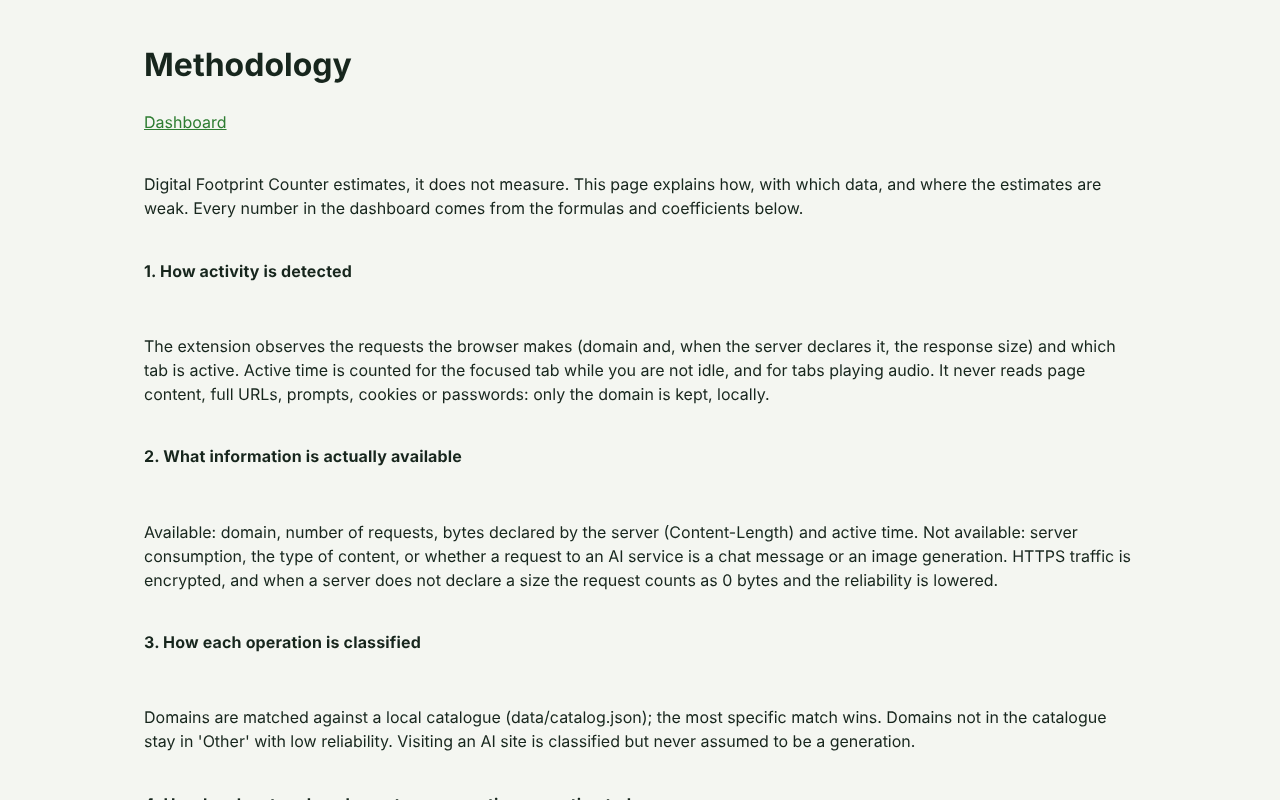
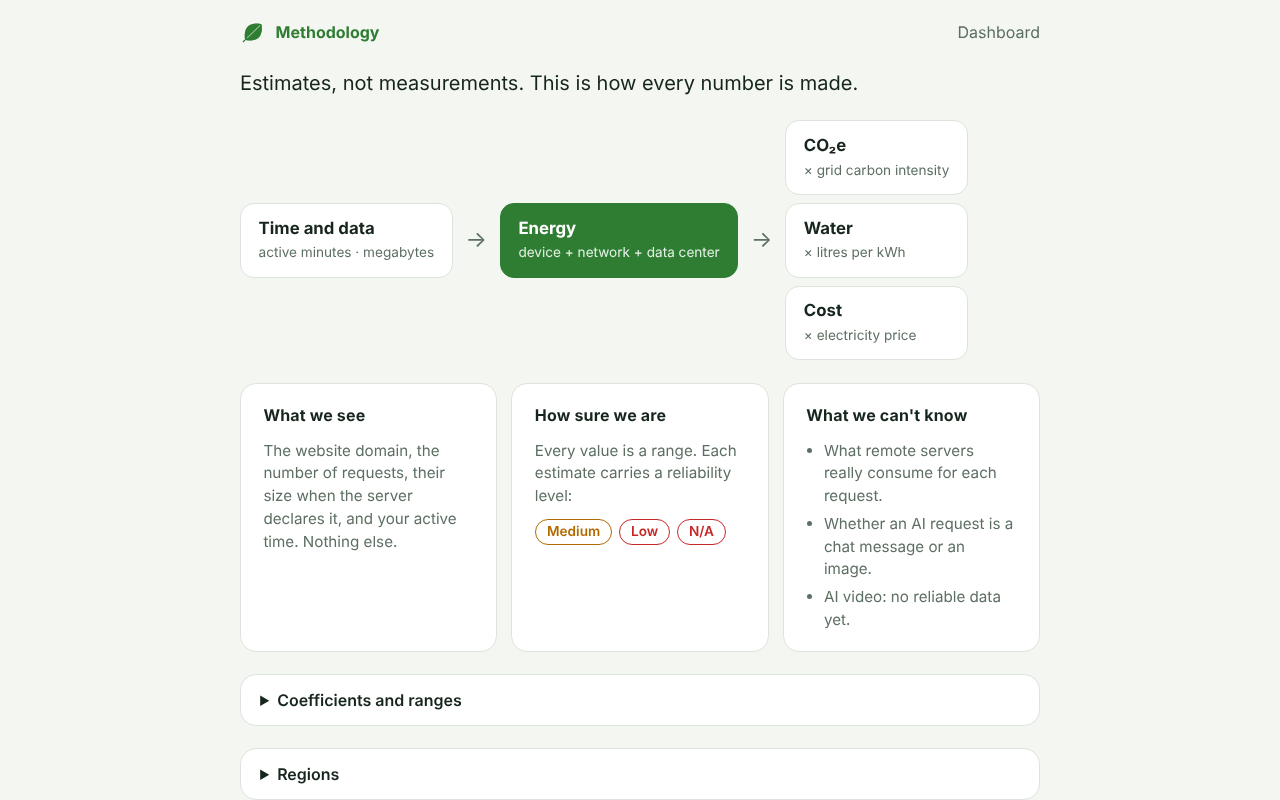
Metodologia essenziale, CSP senza connessioni esterne, icone senza innerHTML, documenti su ricerca valori e modalità di precisione
Claude-Session: https://claude.ai/code/session_01FMdp5T99h9ndXsWj19GVp4

diff --git a/methodology/methodology.html b/methodology/methodology.html
@@ -9,42 +9,53 @@
 </head>
 <body>
   <main>
-    <header>
-      <h1 data-i18n="nav.methodology"></h1>
+    <header class="top">
+      <div class="brand"><img src="../icons/leaf-green-48.png" alt="" width="26" height="26"><span data-i18n="nav.methodology"></span></div>
       <nav><a href="../dashboard/dashboard.html" data-i18n="nav.dashboard"></a></nav>
     </header>
-    <p data-i18n="m.intro"></p>
 
-    <h2 id="detect" data-i18n="m1.title"></h2><p data-i18n="m1.body"></p>
-    <h2 id="info" data-i18n="m2.title"></h2><p data-i18n="m2.body"></p>
-    <h2 id="classify" data-i18n="m3.title"></h2><p data-i18n="m3.body"></p>
-    <h2 id="estimate" data-i18n="m4.title"></h2>
-    <p data-i18n="m4.body1"></p><p data-i18n="m4.body2"></p><p data-i18n="m4.body3"></p><p data-i18n="m4.body4"></p>
+    <p class="lead" data-i18n="m.lead"></p>
 
-    <h2 id="coefficients" data-i18n="m5.title"></h2><p class="note" data-i18n="m5.hint"></p>
-    <div class="scroll"><table id="coef-table"><thead><tr>
-      <th data-i18n="mt.coef"></th><th data-i18n="mt.value"></th><th data-i18n="col.reliability"></th><th data-i18n="mt.status"></th><th data-i18n="mt.method"></th><th data-i18n="mt.sources"></th>
-    </tr></thead><tbody></tbody></table></div>
+    <section id="estimate" class="flow" aria-label="Calculation">
+      <div class="node"><b data-i18n="flow.time"></b><span data-i18n="flow.time.sub"></span></div>
+      <div class="arrow" aria-hidden="true">→</div>
+      <div class="node core"><b data-i18n="flow.energy"></b><span data-i18n="flow.energy.sub"></span></div>
+      <div class="arrow" aria-hidden="true">→</div>
+      <div class="outs">
+        <div class="node"><b data-i18n="flow.co2"></b><span data-i18n="flow.co2.sub"></span></div>
+        <div class="node"><b data-i18n="flow.water"></b><span data-i18n="flow.water.sub"></span></div>
+        <div class="node"><b data-i18n="flow.cost"></b><span data-i18n="flow.cost.sub"></span></div>
+      </div>
+    </section>
 
-    <h3 id="profiles" data-i18n="mt.profiles"></h3>
-    <div class="scroll"><table id="profile-table"><thead><tr>
-      <th data-i18n="mt.region"></th><th>gCO₂e/kWh</th><th data-i18n="mt.price"></th><th data-i18n="mt.status"></th><th data-i18n="mt.method"></th><th data-i18n="mt.sources"></th>
-    </tr></thead><tbody></tbody></table></div>
+    <section class="trio">
+      <div class="card"><h2 data-i18n="card.see.title"></h2><p data-i18n="card.see.body"></p></div>
+      <div class="card" id="margins"><h2 data-i18n="card.sure.title"></h2><p data-i18n="card.sure.body"></p>
+        <ul class="chips"><li class="rel-medium" data-i18n="reliability.medium" title=""></li><li class="rel-low" data-i18n="reliability.low"></li><li class="rel-unavailable" data-i18n="reliability.unavailable"></li></ul>
+      </div>
+      <div class="card" id="limits"><h2 data-i18n="card.cant.title"></h2>
+        <ul><li data-i18n="cant.1"></li><li data-i18n="cant.2"></li><li data-i18n="cant.3"></li></ul>
+      </div>
+    </section>
 
-    <h3 id="equivalences" data-i18n="mt.equivalences"></h3>
-    <div class="scroll"><table id="eq-table"><thead><tr>
-      <th data-i18n="mt.coef"></th><th data-i18n="mt.value"></th><th data-i18n="mt.status"></th><th data-i18n="mt.method"></th><th data-i18n="mt.sources"></th>
-    </tr></thead><tbody></tbody></table></div>
+    <details id="coefficients"><summary data-i18n="det.coef"></summary>
+      <div class="scroll"><table id="coef-table"><thead><tr>
+        <th data-i18n="mt.coef"></th><th data-i18n="mt.value"></th><th data-i18n="col.reliability"></th><th data-i18n="mt.status"></th><th data-i18n="mt.method"></th><th data-i18n="mt.sources"></th>
+      </tr></thead><tbody></tbody></table></div>
+    </details>
+    <details id="profiles"><summary data-i18n="det.profiles"></summary>
+      <div class="scroll"><table id="profile-table"><thead><tr>
+        <th data-i18n="mt.region"></th><th>gCO₂e/kWh</th><th data-i18n="mt.price"></th><th data-i18n="mt.status"></th><th data-i18n="mt.method"></th><th data-i18n="mt.sources"></th>
+      </tr></thead><tbody></tbody></table></div>
+    </details>
+    <details id="equivalences"><summary data-i18n="det.eq"></summary>
+      <div class="scroll"><table id="eq-table"><thead><tr>
+        <th data-i18n="mt.coef"></th><th data-i18n="mt.value"></th><th data-i18n="mt.status"></th><th data-i18n="mt.method"></th><th data-i18n="mt.sources"></th>
+      </tr></thead><tbody></tbody></table></div>
+    </details>
+    <details id="sources"><summary data-i18n="det.sources"></summary><ol id="source-list"></ol></details>
 
-    <h2 id="sources" data-i18n="m6.title"></h2><ol id="source-list"></ol>
-    <h2 id="margins" data-i18n="m7.title"></h2>
-    <p data-i18n="m7.body"></p>
-    <ul>
-      <li data-i18n="reliability.def.high"></li><li data-i18n="reliability.def.medium"></li>
-      <li data-i18n="reliability.def.low"></li><li data-i18n="reliability.def.unavailable"></li>
-    </ul>
-    <h2 id="limits" data-i18n="m8.title"></h2><ul id="limits-list"></ul>
-    <p class="note" data-i18n="m.license"></p>
+    <p class="muted small foot" data-i18n="m.license"></p>
   </main>
   <script type="module" src="methodology.js"></script>
 </body>

diff --git a/site/index.html b/site/index.html
@@ -116,7 +116,7 @@ footer { border-top: 1px solid var(--line); padding-block: 2rem 3rem; color: var
         <div class="frame"><img src="img/toolbar.png" alt="Leaf icon states with tooltips."></div>
       </li>
       <li class="step">
-        <div class="txt"><h3>Open the dashboard</h3><p>One click on the leaf shows today at a glance, then session, 7 and 30 days, a breakdown by activity and by site, and everyday equivalences such as metres driven by car or hours of an LED bulb.</p></div>
+        <div class="txt"><h3>Open the dashboard</h3><p>One click on the leaf opens a visual dashboard: a gauge for the day, what it equals in everyday terms (metres by car, hours of an LED bulb), where it comes from, and a day-by-day trend. Numbers and tables stay one click away.</p></div>
         <div class="frame"><div class="bar"><i></i><i></i><i></i></div><div class="crop"><img src="img/dashboard.png" alt="Dashboard with today's CO₂e, summary table, bars by activity and ranking of sites."></div></div>
       </li>
       <li class="step">
@@ -133,7 +133,7 @@ footer { border-top: 1px solid var(--line); padding-block: 2rem 3rem; color: var
       <div class="frame"><div class="bar"><i></i><i></i><i></i></div><div class="crop"><img src="img/dashboard-dark.png" alt="Dashboard in dark theme."></div></div>
       <div class="frame"><div class="bar"><i></i><i></i><i></i></div><div class="crop"><img src="img/dashboard-week-water.png" alt="Dashboard for the last 7 days with water as the metric."></div></div>
     </div>
-    <p>The interface follows the system theme. Period and metric selectors change the charts only; all three metrics are always computed and stored.</p>
+    <p>The interface follows the system theme. Switch between today, 7 and 30 days, and between CO₂e, water and cost.</p>
   </section>
 
   <section id="number">
@@ -180,7 +180,7 @@ footer { border-top: 1px solid var(--line); padding-block: 2rem 3rem; color: var
         <td>Page content · full addresses · prompts · cookies · passwords · any personal data</td>
       </tr></tbody>
     </table></div>
-    <p>Permissions are limited to observing requests (read-only), idle detection, local storage and a one-minute alarm. You can delete all data from Settings at any time.</p>
+    <p>Permissions are limited to observing requests (read-only), idle detection, local storage and a one-minute alarm. The extension's own security policy forbids any connection except to its own files, so it cannot send data out. You can delete all data from Settings at any time.</p>
   </section>
 
   <section id="open">

diff --git a/site/page.html b/site/page.html
@@ -115,7 +115,7 @@ footer { border-top: 1px solid var(--line); padding-block: 2rem 3rem; color: var
         <div class="frame"><img src="img/toolbar.png" alt="Leaf icon states with tooltips."></div>
       </li>
       <li class="step">
-        <div class="txt"><h3>Open the dashboard</h3><p>One click on the leaf shows today at a glance, then session, 7 and 30 days, a breakdown by activity and by site, and everyday equivalences such as metres driven by car or hours of an LED bulb.</p></div>
+        <div class="txt"><h3>Open the dashboard</h3><p>One click on the leaf opens a visual dashboard: a gauge for the day, what it equals in everyday terms (metres by car, hours of an LED bulb), where it comes from, and a day-by-day trend. Numbers and tables stay one click away.</p></div>
         <div class="frame"><div class="bar"><i></i><i></i><i></i></div><div class="crop"><img src="img/dashboard.png" alt="Dashboard with today's CO₂e, summary table, bars by activity and ranking of sites."></div></div>
       </li>
       <li class="step">
@@ -132,7 +132,7 @@ footer { border-top: 1px solid var(--line); padding-block: 2rem 3rem; color: var
       <div class="frame"><div class="bar"><i></i><i></i><i></i></div><div class="crop"><img src="img/dashboard-dark.png" alt="Dashboard in dark theme."></div></div>
       <div class="frame"><div class="bar"><i></i><i></i><i></i></div><div class="crop"><img src="img/dashboard-week-water.png" alt="Dashboard for the last 7 days with water as the metric."></div></div>
     </div>
-    <p>The interface follows the system theme. Period and metric selectors change the charts only; all three metrics are always computed and stored.</p>
+    <p>The interface follows the system theme. Switch between today, 7 and 30 days, and between CO₂e, water and cost.</p>
   </section>
 
   <section id="number">
@@ -179,7 +179,7 @@ footer { border-top: 1px solid var(--line); padding-block: 2rem 3rem; color: var
         <td>Page content · full addresses · prompts · cookies · passwords · any personal data</td>
       </tr></tbody>
     </table></div>
-    <p>Permissions are limited to observing requests (read-only), idle detection, local storage and a one-minute alarm. You can delete all data from Settings at any time.</p>
+    <p>Permissions are limited to observing requests (read-only), idle detection, local storage and a one-minute alarm. The extension's own security policy forbids any connection except to its own files, so it cannot send data out. You can delete all data from Settings at any time.</p>
   </section>
 
   <section id="open">

diff --git a/methodology/methodology.css b/methodology/methodology.css
@@ -1,5 +1,20 @@
-main { max-width: 64rem; }
-td, th { vertical-align: top; font-size: .9rem; }
-td.method { min-inline-size: 16rem; }
-h2, h3 { scroll-margin-block-start: 1rem; }
+main { max-width: 52rem; }
+.lead { font-size: 1.25rem; margin: 0; max-width: 40rem; }
+.flow { display: flex; flex-wrap: wrap; align-items: center; gap: .8rem; }
+.node { background: var(--card); border: 1px solid var(--line); border-radius: 14px; padding: .8rem 1.1rem; display: grid; gap: .1rem; min-width: 9rem; }
+.node b { font-size: 1.05rem; } .node span { color: var(--muted); font-size: .85rem; }
+.node.core { background: var(--accent); border-color: var(--accent); color: #fff; }
+.node.core span { color: #e3f1e4; }
+@media (prefers-color-scheme: dark) { .node.core { color: #0f1712; } .node.core span { color: #1c3a2a; } }
+.arrow { color: var(--muted); font-size: 1.4rem; }
+.outs { display: grid; gap: .5rem; }
+.trio { display: grid; grid-template-columns: repeat(auto-fit, minmax(15rem, 1fr)); gap: .9rem; }
+.card p, .card ul { margin: 0; color: var(--muted); font-size: .95rem; }
+.card ul { padding-inline-start: 1.1rem; display: grid; gap: .3rem; }
+.card .chips { list-style: none; padding: 0; display: flex; flex-wrap: wrap; gap: .4rem; margin-block-start: .7rem !important; }
+.chips li { border: 1px solid currentColor; border-radius: 999px; padding: .1rem .7rem; font-size: .85rem; font-weight: 600; }
+td, th { vertical-align: top; }
+td.method { min-width: 16rem; }
 tr:target { outline: 2px solid var(--accent); }
+#source-list { margin-block: .8rem 0; padding-inline-start: 1.3rem; display: grid; gap: .4rem; font-size: .9rem; }
+details[open] > summary { margin-block-end: .4rem; }

diff --git a/dashboard/charts.js b/dashboard/charts.js
@@ -7,16 +7,15 @@ export function svg(tag, attrs = {}, ...children) {
   return el;
 }
 
-/** Icone semplici a tratto (48x48). */
+/** Icone semplici a tratto (48x48), costruite con DOM (niente innerHTML). */
 const ICONS = {
-  car: '<path d="M6 30v-7l5-9h22l5 9v7z"/><circle cx="14" cy="32" r="4"/><circle cx="34" cy="32" r="4"/><path d="M11 23h26"/>',
-  bulb: '<path d="M24 6a12 12 0 0 0-6 22v5h12v-5a12 12 0 0 0-6-22z"/><path d="M19 39h10M21 43h6"/>',
-  bottle: '<path d="M20 6h8v6l4 6v24a3 3 0 0 1-3 3H19a3 3 0 0 1-3-3V18l4-6z"/><path d="M16 26h16"/>',
+  car: [['path', { d: 'M6 30v-7l5-9h22l5 9v7z' }], ['circle', { cx: 14, cy: 32, r: 4 }], ['circle', { cx: 34, cy: 32, r: 4 }], ['path', { d: 'M11 23h26' }]],
+  bulb: [['path', { d: 'M24 6a12 12 0 0 0-6 22v5h12v-5a12 12 0 0 0-6-22z' }], ['path', { d: 'M19 39h10M21 43h6' }]],
+  bottle: [['path', { d: 'M20 6h8v6l4 6v24a3 3 0 0 1-3 3H19a3 3 0 0 1-3-3V18l4-6z' }], ['path', { d: 'M16 26h16' }]],
 };
 export function icon(name) {
-  const el = svg('svg', { viewBox: '0 0 48 48', width: 44, height: 44, 'aria-hidden': 'true', fill: 'none', stroke: 'currentColor', 'stroke-width': 2.2, 'stroke-linecap': 'round', 'stroke-linejoin': 'round' });
-  el.innerHTML = ICONS[name]; // contenuto statico, definito qui sopra
-  return el;
+  return svg('svg', { viewBox: '0 0 48 48', width: 44, height: 44, 'aria-hidden': 'true', fill: 'none', stroke: 'currentColor', 'stroke-width': 2.2, 'stroke-linecap': 'round', 'stroke-linejoin': 'round' },
+    ...ICONS[name].map(([tag, attrs]) => svg(tag, attrs)));
 }
 
 /** Semicerchio verde/giallo/rosso con lancetta. `value` e `[lo, hi]` nella stessa unità. */

diff --git a/methodology/methodology.js b/methodology/methodology.js
@@ -92,6 +92,11 @@ for (const [id, s] of Object.entries(sources)) {
   list.append(li);
 }
 
-// Limiti: attività non misurabili
-const limits = document.getElementById('limits-list');
-for (let i = 1; i <= 6; i++) limits.append(Object.assign(document.createElement('li'), { textContent: t(`m8.item${i}`) }));
+// Un link interno (#src-..., #coef-...) apre la sezione che lo contiene.
+function openTarget() {
+  const target = location.hash ? document.getElementById(decodeURIComponent(location.hash.slice(1))) : null;
+  const box = target?.closest('details');
+  if (box) { box.open = true; target.scrollIntoView(); }
+}
+addEventListener('hashchange', openTarget);
+openTarget();

diff --git a/tests/core.test.js b/tests/core.test.js
@@ -88,3 +88,10 @@ test('equivalenze: auto, lampadina, bottiglie, lavatrice', () => {
   assert.ok(Math.abs(r.light_hours_co2 - 106.4 / (0.01 * 331)) < 1e-9);
   for (const it of eq.items) for (const id of it.params) assert.ok(eq.params[id]);
 });
+
+test('manifest: nessuna connessione esterna consentita dalla CSP', () => {
+  const m = JSON.parse(readFileSync(new URL('../manifest.json', import.meta.url)));
+  const csp = m.content_security_policy.extension_pages;
+  assert.match(csp, /connect-src 'self'/);
+  assert.doesNotMatch(csp, /https?:|\*/);
+});

diff --git a/docs/RESEARCH_PROMPT.md b/docs/RESEARCH_PROMPT.md
@@ -1,0 +1,32 @@
+# Prompt per la ricerca di stime e equivalenze
+
+Da incollare in uno strumento di ricerca approfondita (con accesso al web). Restituisci i risultati: li inseriamo in `data/coefficients.json` e `data/equivalences.json`.
+
+```text
+You are a research assistant for an open-source browser extension that ESTIMATES the environmental footprint of web browsing (energy, CO2e, water, electricity cost), fully on the user's device. I need concrete, citable numbers from 2023-2026, preferring primary sources (papers, agency datasets, company sustainability/LCA reports). Never invent numbers: write "not found" when a value is unavailable, and flag disagreement between sources.
+
+For EVERY item return: value (min / central / max), unit, year of the data, geography, scope (what is included and excluded), method (measured or modelled), source (title, publisher, URL), confidence (high/medium/low) and caveats.
+
+A. DATA TRANSFER ENERGY (kWh per GB): network (fixed, mobile) and data centers separately. Compare Sustainable Web Design v4, IEA, Malmodin, Coroama, Mytton et al. 2024. Explain the criticism of the kWh/GB model and suggest a defensible range.
+B. USER DEVICE POWER while browsing (watts): laptop (Apple Silicon and x86), desktop + monitor, smartphone, tablet. Typical share of each device type.
+C. VIDEO STREAMING: energy per hour by resolution (SD/HD/4K) and device; network and data-center share. Sources such as IEA 2020 (Kamiya), Netflix, Carbon Trust.
+D. GENERATIVE AI: energy per text prompt (ChatGPT/GPT-4o and newer, Claude, Gemini, Llama, Mistral), per image generated (Stable Diffusion, DALL-E, Midjourney), per second of generated video. Include Google 2025 (Gemini), Mistral LCA 2025, Epoch AI, Luccioni et al., OpenAI statements. Also: typical prompts per hour of chat use and images per hour of image-tool use.
+E. WATER: on-site cooling (WUE) and off-site water per kWh of electricity, for US, EU, Italy, China, Japan, world. Distinguish consumption from withdrawal. Sources such as LBNL, Ren et al., Google/Microsoft reports, IEA.
+F. GRID CARBON INTENSITY (gCO2e/kWh), latest full year (2024, 2025 if available): Italy, EU27, USA, China, Japan, world. Sources: Ember, IEA, EEA, national operators. State generation-based vs consumption-based and direct vs lifecycle. If available, the shape of the hourly/seasonal profile for Italy and the EU.
+G. HOUSEHOLD ELECTRICITY PRICE, latest full year, with currency, taxes included or not: Italy, EU27 average, USA, China (CNY, tiered), Japan (JPY). Sources: Eurostat nrg_pc_204, EIA, NDRC/NEA, METI/ANRE, ARERA.
+H. EVERYDAY EQUIVALENCES with sources: average in-use passenger car gCO2/km (EU fleet, US fleet) and new cars; typical LED bulb power; energy of one washing-machine cycle; one hot shower (litres and kWh); boiling a kettle; charging a smartphone; one km by train/bus; and the EPA greenhouse-gas equivalencies method. Suggest the 5 most intuitive equivalences for CO2e, water, energy and cost.
+I. TYPICAL DATA VOLUMES: median page weight (HTTP Archive), social scrolling MB/hour, music and video MB/hour by resolution, video-call MB/hour.
+J. SCOPE: how much of the footprint is usually embodied (devices, network equipment) versus operational, and whether to exclude it.
+
+OUTPUT FORMAT
+1. One table per section A-J, JSON-ready columns: id, value_min, value_mid, value_max, unit, year, region, source_url, status (sourced | to_verify), notes. Use these ids where they apply: device_power_w, network_dc_kwh_per_gb, streaming_kwh_per_hour, ai_text_wh_per_prompt, ai_text_prompts_per_hour, ai_image_wh_per_image, ai_image_images_per_hour, ai_video_wh_per_second, water_l_per_kwh, co2_g_per_kwh_{it,eu,us,cn,jp,world}, price_per_kwh_{it,eu,us,cn,jp,world}, car_g_per_km, led_w, washing_kwh.
+2. A short list of conflicts between sources, with a recommended central value and why.
+3. A list of items that still need verification against a primary source.
+```
+
+## Valori attuali da migliorare (priorità)
+1. Intensità carbonica UE e Giappone (oggi valori del 2020) e prezzo di Cina, Giappone, mondo.
+2. Acqua per kWh (oggi intervallo ampio da fonti secondarie).
+3. AI: energia per prompt/immagine/secondo di video e ritmo d'uso (oggi ipotesi).
+4. Potenza del dispositivo (oggi 9–50 W, ipotesi).
+5. Equivalenze: auto in uso (oggi auto nuove EU), lavatrice, lampadina.

diff --git a/docs/PRECISION_MODES.md b/docs/PRECISION_MODES.md
@@ -1,0 +1,41 @@
+# Modalità di precisione (facoltative)
+
+Obiettivo: stime più precise **solo se l'utente lo sceglie**, senza chiedere più di quanto serve e senza raccogliere contenuti.
+
+## Principi
+1. **Un interruttore per livello**, spento di default, con spiegazione prima della richiesta del browser: cosa leggiamo, cosa non leggiamo, dove resta il dato.
+2. **Solo numeri aggregati**: contatori giornalieri. Mai testi, titoli, URL, prompt, cookie.
+3. **Per sito o per servizio** dove possibile (permessi opzionali richiesti al momento, revocabili).
+4. **Revoca facile**: spegnere il livello rimuove il permesso e, a scelta, i dati raccolti con quel livello.
+5. **Verificabile**: codice aperto, descrizione di ogni livello nella pagina Metodologia, e una regola di sicurezza (CSP) che vieta qualsiasi connessione esterna.
+
+## I livelli
+| Livello | Cosa migliora | Come | Permesso | Rischio privacy | Consiglio |
+|---|---|---|---|---|---|
+| **0 Base** (oggi) | Stima da dominio, byte dichiarati, tempo | `webRequest` in sola lettura | accesso ai siti + `webRequest` | Basso: solo dominio e conteggi | Sempre |
+| **1 Dati più completi** | Byte inviati (upload), profilo del dispositivo, andamento orario della rete elettrica | Intestazioni di richiesta; scelta manuale laptop/desktop/telefono; curve orarie incluse nel pacchetto | Nessuno nuovo | Molto basso | Sì, senza richiesta |
+| **2 Streaming preciso** | Risoluzione reale del video → energia per ora molto più accurata | Script minimo su siti scelti (YouTube, Netflix, Twitch…) che legge solo altezza del video, riproduzione/pausa | Permesso di sito **per sito**, opzionale | Medio-basso: non legge titoli né URL | Sì, opt-in per sito |
+| **3 AI per servizio** | Sostituisce l'ipotesi "prompt all'ora" con conteggi reali di prompt e generazioni | Riconosce l'endpoint del servizio (solo metodo e percorso) e incrementa un contatore | Già coperto dal livello 0; in modalità Light, per sito | Medio: rivela quanto usi l'AI, in locale | Sì, opt-in per servizio. Il valore più alto per l'accuratezza |
+| **4 Carico del dispositivo** | Potenza reale al posto dell'ipotesi 9–50 W | Un campione al minuto del carico CPU | `system.cpu` opzionale (solo Chrome/Edge) | Medio-basso: non identifica contenuti | Facoltativo avanzato |
+
+## Da non fare
+- `debugger` (mostra un avviso e dà accesso totale), lettura del flusso di risposta in Firefox (`filterResponseData`), `history`, `cookies`, URL completi, geolocalizzazione (la regione si sceglie a mano).
+- Servizi esterni per l'intensità carbonica in tempo reale: richiedono rete e posizione. Si usano dati statici nel pacchetto, aggiornati con le versioni.
+
+## Come mantenere il massimo della privacy
+- **Conservazione configurabile**: 7, 30 o 90 giorni (oggi 90, fisso). I dati dei livelli avanzati con la stessa scadenza.
+- **Cancellazione**: "Elimina tutto" (esiste) e "Elimina solo i dati dei livelli avanzati".
+- **Pausa**: un pulsante per sospendere il monitoraggio.
+- **Esclusioni**: elenco di domini mai monitorati (consigliare banche, sanità, lavoro).
+- **Finestre private**: non monitorate.
+- **Visibilità**: se un livello avanzato è attivo, la foglia lo segnala nel tooltip e le impostazioni elencano cosa viene letto.
+- **Nessuna esportazione automatica**: eventuale esportazione CSV solo manuale e locale.
+- **Garanzia tecnica**: la CSP dell'estensione consente solo connessioni ai propri file (`connect-src 'self'`), già attiva; test automatico che la verifica.
+
+## Ordine di lavoro proposto
+1. Livello 1 (nessuna richiesta) e controlli di privacy (finestre private, pausa, esclusioni, conservazione).
+2. Livello 3 con adattatori per i servizi AI più diffusi (catalogo JSON aggiornabile).
+3. Livello 2 per YouTube e Netflix.
+4. Livello 4 solo se serve davvero, dopo aver misurato quanto migliora la stima.
+
+Ogni livello deve arrivare con: testo di consenso, voce nella Metodologia, test che non vengano letti contenuti, e un confronto prima/dopo dell'accuratezza.
